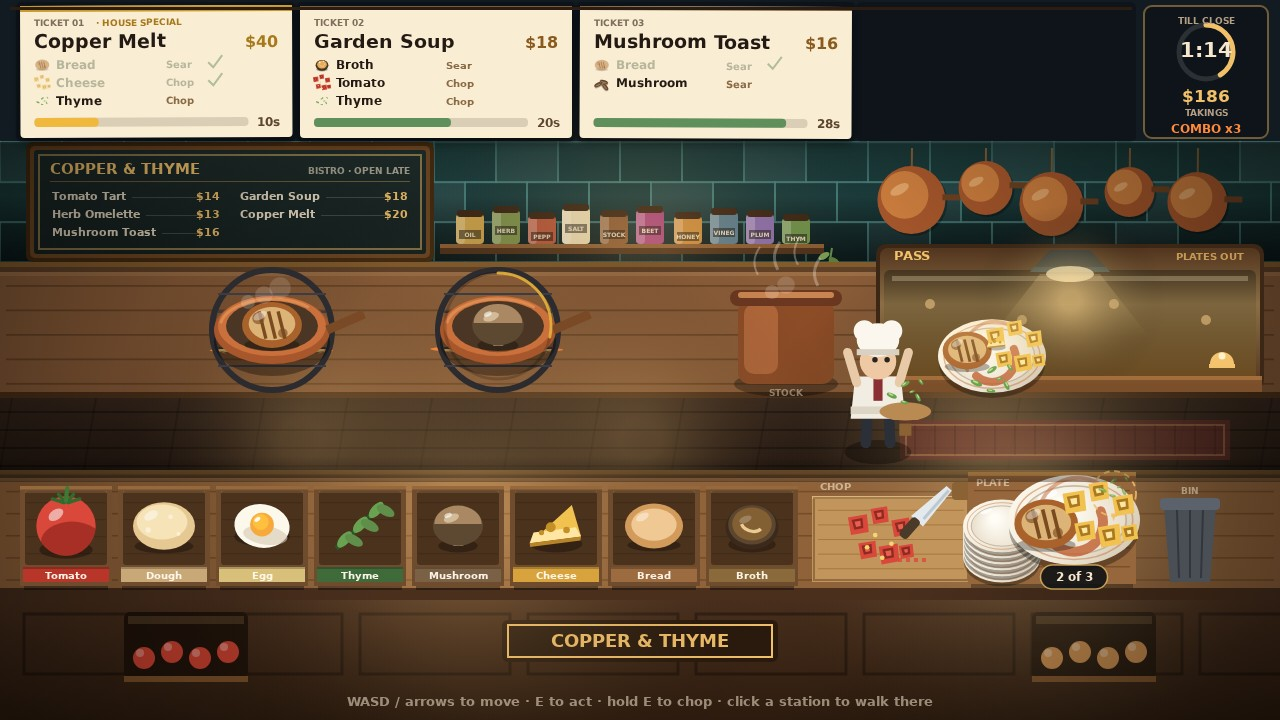
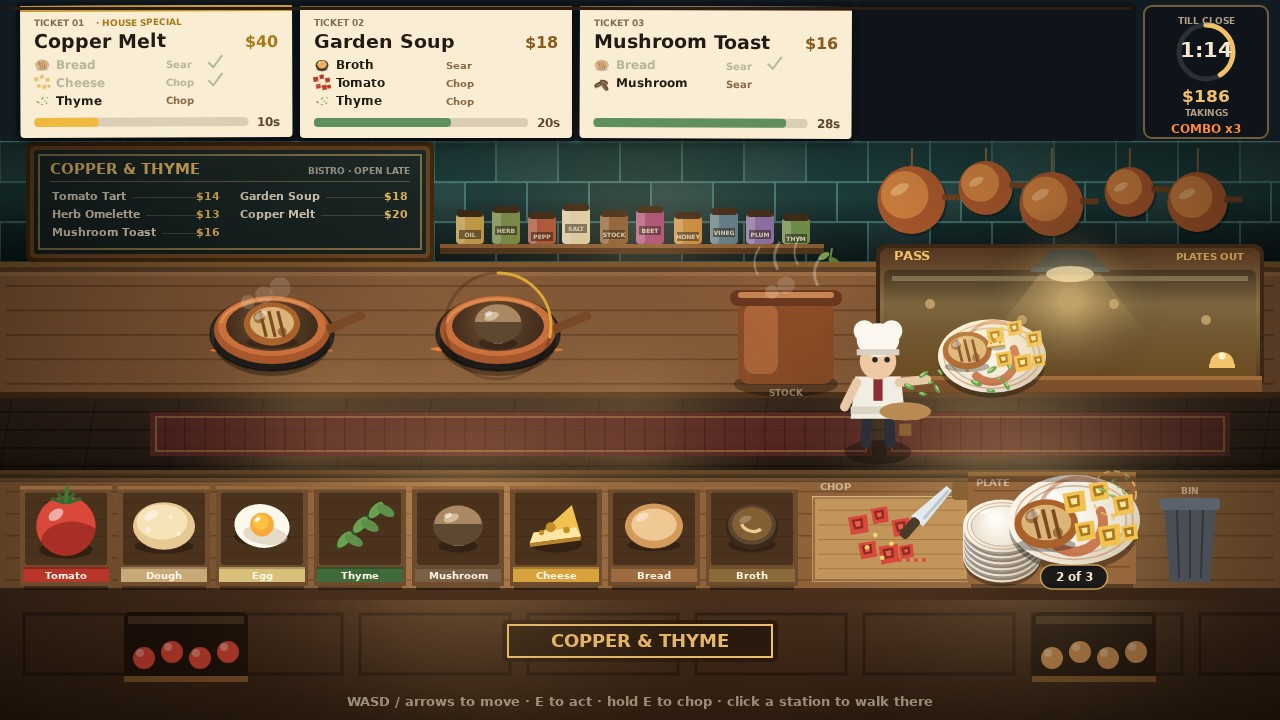
Kitchen floor and pans: one worn runner down the whole aisle instead of an empty strip, and copper pans that read as pans with food in them

diff --git a/game/src/stations.js b/game/src/stations.js
@@ -298,19 +298,16 @@ function drawBurner(ctx, burner, t) {
     ctx.fill();
   }
   ctx.globalAlpha = 1;
-  ctx.strokeStyle = '#2b2b30';
-  ctx.lineWidth = 6;
+  // the iron ring the pan sits in: a thin dark collar, never a black wheel around the copper
+  ctx.fillStyle = '#302a26';
   ctx.beginPath();
-  ctx.arc(cx, cy, 60, 0, Math.PI * 2);
-  ctx.stroke();
-  ctx.strokeStyle = '#3c3c44';
+  ctx.ellipse(cx, cy + 4, 62, 37, 0, 0, Math.PI * 2);
+  ctx.fill();
+  ctx.strokeStyle = 'rgba(0,0,0,0.35)';
   ctx.lineWidth = 2;
-  for (let i = -2; i <= 2; i += 1) {
-    ctx.beginPath();
-    ctx.moveTo(cx - 54, cy + i * 18);
-    ctx.lineTo(cx + 54, cy + i * 18);
-    ctx.stroke();
-  }
+  ctx.beginPath();
+  ctx.ellipse(cx, cy + 4, 62, 37, 0, 0, Math.PI * 2);
+  ctx.stroke();
   const item = burner.item;
   ctx.fillStyle = 'rgba(0,0,0,0.34)';
   ctx.beginPath();
@@ -324,7 +321,10 @@ function drawBurner(ctx, burner, t) {
   ctx.beginPath();
   ctx.ellipse(cx, cy - 4, 54, 30, 0, 0, Math.PI * 2);
   ctx.fill();
-  ctx.fillStyle = '#4b3524';
+  const inner = ctx.createRadialGradient(cx - 8, cy - 12, 4, cx, cy - 4, 48);
+  inner.addColorStop(0, '#6b4a2c');
+  inner.addColorStop(1, '#3f2a1c');
+  ctx.fillStyle = inner;
   ctx.beginPath();
   ctx.ellipse(cx, cy - 4, 46, 25, 0, 0, Math.PI * 2);
   ctx.fill();
@@ -341,7 +341,7 @@ function drawBurner(ctx, burner, t) {
   ctx.stroke();
   if (item) {
     const state = item.state === 'burnt' ? 'burnt' : item.done ? 'seared' : 'raw';
-    drawIngredient(ctx, item.ingredient, state, cx, cy - 5, 68);
+    drawIngredient(ctx, item.ingredient, state, cx, cy - 6, 64);
     if (!item.done || item.state === 'burnt') {
       ctx.save();
       ctx.globalAlpha = 0.85;

diff --git a/game/src/room.js b/game/src/room.js
@@ -218,14 +218,16 @@ function aisle(ctx) {
     ctx.stroke();
   }
   for (const lx of [300, 640, 980]) lightPool(ctx, lx, 440, 200, 'rgba(255,203,126,0.5)', 0.42);
-  // the runner mat along the pass end of the aisle
-  ctx.fillStyle = 'rgba(112,44,40,0.6)';
-  ctx.fillRect(900, 420, 330, 40);
-  ctx.strokeStyle = 'rgba(242,192,105,0.3)';
-  ctx.lineWidth = 2;
-  ctx.strokeRect(906, 425, 318, 30);
-  ctx.fillStyle = 'rgba(0,0,0,0.16)';
-  for (let x = 914; x < 1216; x += 20) ctx.fillRect(x, 425, 2, 30);
+  // one worn runner down the whole line, so the aisle is a working floor with a history
+  for (const [x0, x1] of [[150, 872], [886, 1230]]) {
+    ctx.fillStyle = 'rgba(112,44,40,0.62)';
+    ctx.fillRect(x0, 412, x1 - x0, 44);
+    ctx.strokeStyle = 'rgba(242,192,105,0.32)';
+    ctx.lineWidth = 2;
+    ctx.strokeRect(x0 + 6, 417, x1 - x0 - 12, 34);
+    ctx.fillStyle = 'rgba(0,0,0,0.16)';
+    for (let x = x0 + 14; x < x1 - 12; x += 20) ctx.fillRect(x, 417, 2, 34);
+  }
 }
 
 /** The pantry counter the cook works along, under the warmest lamp in the room. */
